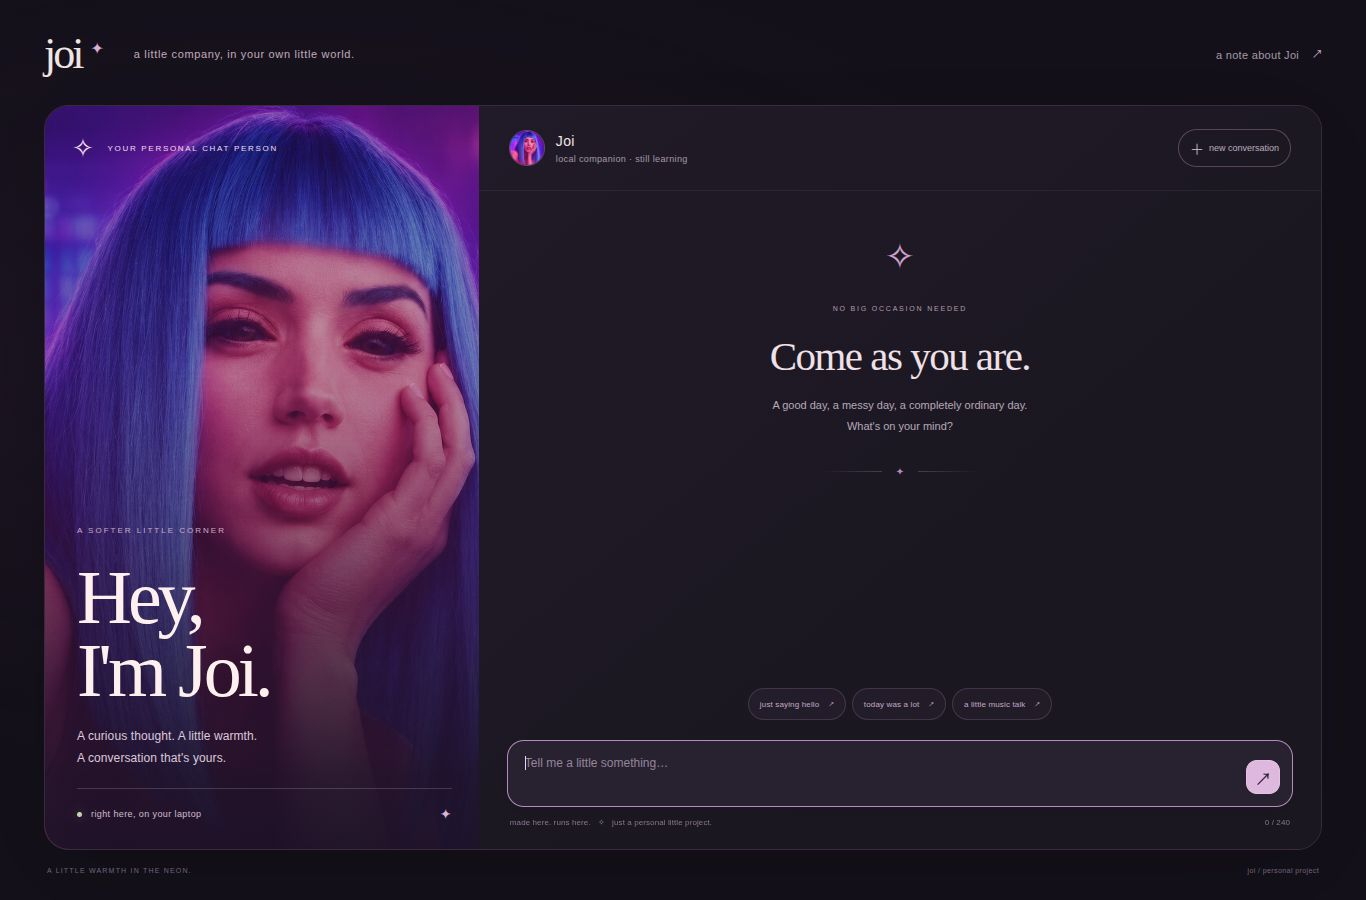
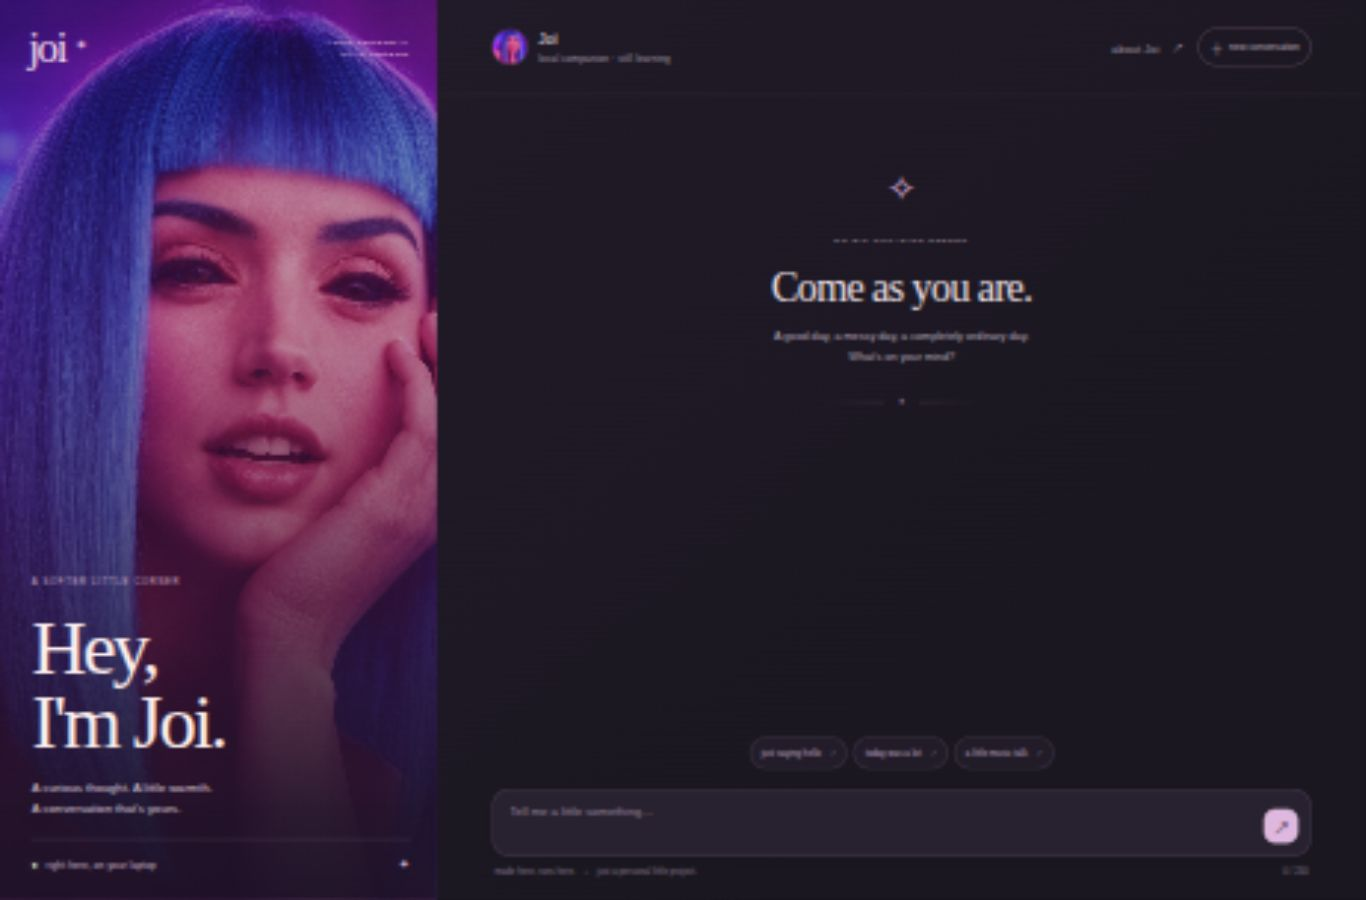
Make Joi chat fill the browser window

diff --git a/web/app.css b/web/app.css
@@ -1,8 +1,8 @@
 :root{color-scheme:dark;--bg:#131019;--panel:#1b1722;--muted:#a59aa9;--ink:#f0e5e5;--accent:#ddb6df;--line:#3b303f;--soft:#c4a5c5;font-family:Arial,Helvetica,sans-serif;font-synthesis:none}
-*{box-sizing:border-box}body{margin:0;background:radial-gradient(ellipse at 20% 40%,#39214344,transparent 55%),var(--bg);color:var(--ink);min-height:100svh}button,a,textarea{-webkit-tap-highlight-color:transparent}button{font:inherit;cursor:pointer}button:disabled{cursor:wait;opacity:.45}button:focus-visible,a:focus-visible{outline:2px solid var(--accent);outline-offset:5px}button{transition:background .2s,color .2s,transform .2s}button:hover:not(:disabled){filter:brightness(1.15)}a{color:inherit;text-decoration:none}.shell{max-width:1400px;margin:auto;padding:25px 44px 18px}.topbar{height:58px;display:flex;align-items:center;gap:30px;margin-bottom:22px}.wordmark{font-family:Georgia,serif;font-size:44px;letter-spacing:-3px;line-height:1}.wordmark span{display:inline-block;color:#dfaddd;font-family:Arial,sans-serif;font-size:16px;vertical-align:top;margin:9px 0 0 9px;letter-spacing:0}.top-caption{font-size:11px;letter-spacing:.65px;color:#c0acbf}.notes-button{margin-left:auto;border:0;background:none;color:var(--muted);font-size:11px;padding:12px 0;letter-spacing:.3px}.notes-button span{margin-left:10px;color:var(--soft);font-size:15px}.experience{display:grid;grid-template-columns:34% 66%;height:min(770px,calc(100svh - 155px));min-height:560px;border:1px solid #3a2a3d;border-radius:25px;overflow:hidden;box-shadow:0 18px 100px #0003}.portrait-panel{position:relative;overflow:hidden;background:#391d50}.portrait{position:absolute;width:100%;height:100%;object-fit:cover;object-position:50% 35%;filter:saturate(.87) brightness(.88)}.portrait-shade{position:absolute;inset:0;background:linear-gradient(180deg,#20112725 35%,#1d102450 55%,#1a1125e6 90%,#1a1125f5)}.portrait-top{position:absolute;top:29px;left:27px;right:27px;display:flex;gap:12px;align-items:center;color:#f4deeb;font-size:8px;letter-spacing:1.7px}.little-star{font-size:26px;line-height:1}.portrait-caption{position:absolute;left:32px;right:20px;bottom:80px}.eyebrow{font-size:8px;letter-spacing:2px;font-weight:500;color:#ccadc9}.portrait-caption h1{font-family:Georgia,'Times New Roman',serif;font-size:76px;font-weight:400;line-height:.96;letter-spacing:-4px;margin:24px 0 18px;color:#fff0f0}.portrait-caption p{font-size:12px;line-height:1.85;color:#dfcadb;margin:0;letter-spacing:.1px}.portrait-bottom{position:absolute;bottom:27px;left:32px;right:27px;border-top:1px solid #ffffff29;padding-top:17px;display:flex;align-items:center;gap:9px;font-size:9px;color:#d1bdd0;letter-spacing:.4px}.portrait-bottom>span:last-child{margin-left:auto;font-size:14px;color:#dab4d9}.status-dot{width:5px;height:5px;background:#c3d7b4;border-radius:50%;box-shadow:0 0 9px #c3d7b455}.chat-panel{min-width:0;display:flex;flex-direction:column;background:linear-gradient(140deg,#211a28,#1a1720 70%)}.chat-header{display:flex;align-items:center;justify-content:space-between;padding:23px 30px;border-bottom:1px solid #dfb7df12;flex-shrink:0}.chat-identity{display:flex;align-items:center;gap:11px}.chat-identity img{width:36px;height:36px;border-radius:50%;object-fit:cover;object-position:50% 38%;border:1px solid #ae7fb873}.chat-identity h2{font-size:14px;font-weight:500;letter-spacing:.3px;margin:0 0 5px}.chat-identity p{font-size:9px;letter-spacing:.35px;color:var(--muted);margin:0}.new-chat{background:none;border:1px solid #59465c;border-radius:30px;padding:8px 11px;display:flex;gap:5px;align-items:center;color:#bcacbf;font-size:9px}.new-chat>span:first-child{font-size:14px}.conversation{overflow:auto;flex:1;min-height:0;padding:0 31px 20px;scroll-behavior:smooth;scrollbar-width:thin;scrollbar-color:#59445d transparent}.welcome{padding:clamp(25px,5vh,65px) 0 15px;text-align:center}.welcome-star{display:block;font-size:36px;color:#d0a2cf;margin:0 0 19px;font-weight:200}.welcome .eyebrow{font-size:7px;letter-spacing:1.8px;color:#b49caf}.welcome h2{font:400 clamp(30px,3vw,44px)/1.2 Georgia,serif;letter-spacing:-1.5px;margin:17px 0 14px;color:#f0e0e8}.welcome p{font-size:11px;line-height:1.9;color:#b8a8ba;margin:0}.star-line{display:flex;align-items:center;justify-content:center;gap:14px;margin:29px auto 7px;max-width:190px;color:#b78bb9;font-size:10px}.star-line i{height:1px;background:linear-gradient(90deg,transparent,#b78bb94d);width:60px}.star-line i:last-child{transform:rotate(180deg)}.message{display:flex;gap:10px;margin:22px 0;align-items:flex-start;animation:arrive .25s ease-out}.message img{width:25px;height:25px;object-fit:cover;border-radius:50%;flex-shrink:0}.message-content{min-width:0;max-width:88%}.message .name{font-size:8px;letter-spacing:1.2px;color:#b698b9;display:block;margin:0 0 8px}.message p{font-size:13px;line-height:1.8;margin:0;white-space:pre-wrap;overflow-wrap:anywhere;color:#e4d7e4}.message.user{justify-content:flex-end}.message.user .message-content{background:#3e3049;border:1px solid #67506c4a;padding:12px 17px;border-radius:17px 17px 3px 17px}.message.user .name{color:#c6a9cd;font-size:7px;margin-bottom:4px}.message.user p{font-size:12px;color:#e6dbe9}.thinking{display:flex;align-items:center;gap:10px;margin:22px 0}.thinking[hidden]{display:none}.thinking img{width:25px;height:25px;border-radius:50%}.thinking>div{display:flex;gap:5px;padding:10px 0}.thinking>div>span{width:4px;height:4px;border-radius:50%;background:#bd9ac7;animation:pulse 1.4s infinite}.thinking>div>span:nth-child(2){animation-delay:.2s}.thinking>div>span:nth-child(3){animation-delay:.4s}.composer-area{padding:0 28px 22px;flex-shrink:0}.suggestions{display:flex;gap:6px;justify-content:center;margin:7px 0 20px;flex-wrap:wrap}.suggestions[hidden]{display:none}.suggestions button{font-size:8px;letter-spacing:.15px;color:#c2a9c6;background:#34273c55;border:1px solid #67526c73;padding:9px 11px;border-radius:20px}.suggestions button span{margin-left:7px;color:#cba1d5}.composer{display:flex;align-items:flex-end;background:#28212f;border:1px solid #65516e8c;border-radius:17px;padding:12px 12px 12px 17px;gap:10px;box-shadow:0 4px 25px #0001}.composer:focus-within{border-color:#b48cbf}.composer textarea{width:100%;background:none;border:0;resize:none;outline:none;min-height:38px;max-height:100px;color:#e6d9e9;font:12px/1.7 Arial,sans-serif;padding:0;scrollbar-width:thin}.composer textarea::placeholder{color:#95859d}.send{border:1px solid #e4c3e4;background:#dfb8df;color:#35243b;width:34px;height:34px;border-radius:11px;flex-shrink:0;font-size:23px;display:grid;place-items:center}.composer-footer{display:flex;justify-content:space-between;gap:12px;font-size:8px;color:#86768d;margin:11px 3px 0;letter-spacing:.1px}.composer-footer i{font-style:normal;color:#a984b3;margin:0 5px}#counter{white-space:nowrap}.error{font-size:11px;color:#f6bfd1;line-height:1.7;background:#4b253c55;border-radius:8px;padding:9px 12px}.page-footer{display:flex;justify-content:space-between;margin:17px 3px 0;color:#73637d;font-size:7px;letter-spacing:1.2px}.page-footer>span:last-child{letter-spacing:.4px}.sr-only{position:absolute;width:1px;height:1px;padding:0;margin:-1px;overflow:hidden;clip:rect(0,0,0,0);white-space:nowrap;border:0}dialog{width:min(450px,calc(100% - 40px));background:#241b2d;color:#e6d9e9;border:1px solid #6b4a74;border-radius:23px;padding:36px}dialog::backdrop{background:#09050edb;backdrop-filter:blur(6px)}dialog h2{font:400 36px/1.1 Georgia,serif;letter-spacing:-1px;margin:20px 0}dialog p{font-size:12px;line-height:1.85;color:#c7b7cb}.close-dialog{position:absolute;right:16px;top:12px;border:0;background:none;color:#bda4c6;font-size:25px}.model-note{border-top:1px solid #62436b;padding-top:14px;margin-top:20px;color:#ab8db8;font-size:10px;line-height:1.8}@keyframes pulse{0%,80%,100%{opacity:.3;transform:translateY(0)}40%{opacity:1;transform:translateY(-3px)}}@keyframes arrive{from{opacity:0;transform:translateY(4px)}to{opacity:1;transform:translateY(0)}}
-@media(min-width:1500px){.shell{padding-top:35px}.topbar{margin-bottom:30px}.experience{height:calc(100svh - 190px);max-height:900px}.welcome{padding-top:80px}.portrait-caption h1{font-size:90px}}
-@media(max-width:900px){.shell{padding:15px 20px}.topbar{gap:20px;margin-bottom:15px}.experience{grid-template-columns:32% 68%;border-radius:20px}.portrait-caption{left:23px}.portrait-caption h1{font-size:61px}.portrait-caption p{font-size:10px}.portrait-top{left:22px;font-size:6px;letter-spacing:1px}.portrait-bottom{left:23px;font-size:7px}.chat-header{padding:20px}.conversation{padding-left:22px;padding-right:22px}.composer-area{padding-left:19px;padding-right:19px}.top-caption{font-size:9px}.suggestions{gap:5px}.suggestions button{font-size:7px;padding:8px}.new-chat{font-size:8px}.portrait{object-position:50% 35%}}
-@media(max-width:620px){.shell{padding:0 12px 10px}.topbar{height:68px;margin:0 5px}.wordmark{font-size:37px}.top-caption{font-size:8px;max-width:150px;line-height:1.7;letter-spacing:.2px}.notes-button{font-size:0}.notes-button span{font-size:19px}.experience{display:block;height:calc(100svh - 102px);min-height:420px;border-radius:20px}.portrait-panel{display:none}.chat-panel{height:100%;background:radial-gradient(ellipse at 90% 0,#53305055,transparent 55%),#1b1722}.chat-header{padding:17px 18px}.chat-identity img{width:35px;height:35px}.chat-identity h2{font-size:14px}.chat-identity p{font-size:9px}.new-chat{padding:7px 10px;font-size:8px}.welcome{padding-top:7vh}.welcome h2{font-size:38px}.welcome p{font-size:11px}.conversation{padding-left:19px;padding-right:19px}.composer-area{padding:0 14px 16px}.composer textarea{font-size:16px;line-height:1.5}.composer-footer{font-size:7px}.composer-footer>span:first-child{max-width:250px}.page-footer{font-size:6px;margin:11px 4px 0;letter-spacing:.8px}.suggestions{margin-bottom:13px}.suggestions button{font-size:8px;padding:8px 9px}.welcome-star{font-size:32px;margin-bottom:20px}}
+*{box-sizing:border-box}body{margin:0;background:radial-gradient(ellipse at 20% 40%,#39214344,transparent 55%),var(--bg);color:var(--ink);height:100%;overflow:hidden}button,a,textarea{-webkit-tap-highlight-color:transparent}button{font:inherit;cursor:pointer}button:disabled{cursor:wait;opacity:.45}button:focus-visible,a:focus-visible{outline:2px solid var(--accent);outline-offset:5px}button{transition:background .2s,color .2s,transform .2s}button:hover:not(:disabled){filter:brightness(1.15)}a{color:inherit;text-decoration:none}.shell{width:100%;height:100vh;height:100dvh;margin:0;padding:0;overflow:hidden}.wordmark{font-family:Georgia,serif;font-size:44px;letter-spacing:-3px;line-height:1}.wordmark span{display:inline-block;color:#dfaddd;font-family:Arial,sans-serif;font-size:16px;vertical-align:top;margin:9px 0 0 9px;letter-spacing:0}.chat-actions{display:flex;align-items:center;gap:16px}.notes-button{border:0;background:none;color:var(--muted);font-size:11px;padding:12px 0;letter-spacing:.3px}.notes-button span{margin-left:10px;color:var(--soft);font-size:15px}.experience{display:grid;grid-template-columns:minmax(260px,32%) minmax(0,1fr);width:100%;height:100%;min-height:0;overflow:hidden}.portrait-panel{position:relative;overflow:hidden;background:#391d50}.portrait{position:absolute;width:100%;height:100%;object-fit:cover;object-position:50% 35%;filter:saturate(.87) brightness(.88)}.portrait-shade{position:absolute;inset:0;background:linear-gradient(180deg,#20112725 35%,#1d102450 55%,#1a1125e6 90%,#1a1125f5)}.portrait-top{position:absolute;top:27px;left:28px;right:28px;display:flex;justify-content:space-between;gap:12px;align-items:center;color:#f4deeb}.portrait-top-label{text-align:right;font-size:7px;line-height:1.8;letter-spacing:1.7px}.portrait-caption{position:absolute;left:32px;right:20px;bottom:80px}.eyebrow{font-size:8px;letter-spacing:2px;font-weight:500;color:#ccadc9}.portrait-caption h1{font-family:Georgia,'Times New Roman',serif;font-size:76px;font-weight:400;line-height:.96;letter-spacing:-4px;margin:24px 0 18px;color:#fff0f0}.portrait-caption p{font-size:12px;line-height:1.85;color:#dfcadb;margin:0;letter-spacing:.1px}.portrait-bottom{position:absolute;bottom:27px;left:32px;right:27px;border-top:1px solid #ffffff29;padding-top:17px;display:flex;align-items:center;gap:9px;font-size:9px;color:#d1bdd0;letter-spacing:.4px}.portrait-bottom>span:last-child{margin-left:auto;font-size:14px;color:#dab4d9}.status-dot{width:5px;height:5px;background:#c3d7b4;border-radius:50%;box-shadow:0 0 9px #c3d7b455}.chat-panel{min-width:0;min-height:0;display:flex;flex-direction:column;background:linear-gradient(140deg,#211a28,#1a1720 70%)}.chat-header{display:flex;align-items:center;justify-content:space-between;padding:24px clamp(24px,4vw,64px);border-bottom:1px solid #dfb7df12;flex-shrink:0}.chat-identity{display:flex;align-items:center;gap:11px}.chat-identity img{width:36px;height:36px;border-radius:50%;object-fit:cover;object-position:50% 38%;border:1px solid #ae7fb873}.chat-identity h2{font-size:14px;font-weight:500;letter-spacing:.3px;margin:0 0 5px}.chat-identity p{font-size:9px;letter-spacing:.35px;color:var(--muted);margin:0}.new-chat{background:none;border:1px solid #59465c;border-radius:30px;padding:8px 11px;display:flex;gap:5px;align-items:center;color:#bcacbf;font-size:9px}.new-chat>span:first-child{font-size:14px}.conversation{overflow:auto;flex:1;min-height:0;padding:0 clamp(24px,4vw,64px) 24px;scroll-behavior:smooth;scrollbar-width:thin;scrollbar-color:#59445d transparent}.welcome{padding:clamp(32px,8vh,96px) 0 15px;text-align:center}.welcome-star{display:block;font-size:36px;color:#d0a2cf;margin:0 0 19px;font-weight:200}.welcome .eyebrow{font-size:7px;letter-spacing:1.8px;color:#b49caf}.welcome h2{font:400 clamp(30px,3vw,44px)/1.2 Georgia,serif;letter-spacing:-1.5px;margin:17px 0 14px;color:#f0e0e8}.welcome p{font-size:11px;line-height:1.9;color:#b8a8ba;margin:0}.star-line{display:flex;align-items:center;justify-content:center;gap:14px;margin:29px auto 7px;max-width:190px;color:#b78bb9;font-size:10px}.star-line i{height:1px;background:linear-gradient(90deg,transparent,#b78bb94d);width:60px}.star-line i:last-child{transform:rotate(180deg)}.message{display:flex;gap:10px;margin:22px 0;align-items:flex-start;animation:arrive .25s ease-out}.message img{width:25px;height:25px;object-fit:cover;border-radius:50%;flex-shrink:0}.message-content{min-width:0;max-width:88%}.message .name{font-size:8px;letter-spacing:1.2px;color:#b698b9;display:block;margin:0 0 8px}.message p{font-size:13px;line-height:1.8;margin:0;white-space:pre-wrap;overflow-wrap:anywhere;color:#e4d7e4}.message.user{justify-content:flex-end}.message.user .message-content{background:#3e3049;border:1px solid #67506c4a;padding:12px 17px;border-radius:17px 17px 3px 17px}.message.user .name{color:#c6a9cd;font-size:7px;margin-bottom:4px}.message.user p{font-size:12px;color:#e6dbe9}.thinking{display:flex;align-items:center;gap:10px;margin:22px 0}.thinking[hidden]{display:none}.thinking img{width:25px;height:25px;border-radius:50%}.thinking>div{display:flex;gap:5px;padding:10px 0}.thinking>div>span{width:4px;height:4px;border-radius:50%;background:#bd9ac7;animation:pulse 1.4s infinite}.thinking>div>span:nth-child(2){animation-delay:.2s}.thinking>div>span:nth-child(3){animation-delay:.4s}.composer-area{padding:0 clamp(24px,4vw,64px) 24px;flex-shrink:0}.suggestions{display:flex;gap:6px;justify-content:center;margin:7px 0 20px;flex-wrap:wrap}.suggestions[hidden]{display:none}.suggestions button{font-size:8px;letter-spacing:.15px;color:#c2a9c6;background:#34273c55;border:1px solid #67526c73;padding:9px 11px;border-radius:20px}.suggestions button span{margin-left:7px;color:#cba1d5}.composer{display:flex;align-items:flex-end;background:#28212f;border:1px solid #65516e8c;border-radius:17px;padding:12px 12px 12px 17px;gap:10px;box-shadow:0 4px 25px #0001}.composer:focus-within{border-color:#b48cbf}.composer textarea{width:100%;background:none;border:0;resize:none;outline:none;min-height:38px;max-height:100px;color:#e6d9e9;font:12px/1.7 Arial,sans-serif;padding:0;scrollbar-width:thin}.composer textarea::placeholder{color:#95859d}.send{border:1px solid #e4c3e4;background:#dfb8df;color:#35243b;width:34px;height:34px;border-radius:11px;flex-shrink:0;font-size:23px;display:grid;place-items:center}.composer-footer{display:flex;justify-content:space-between;gap:12px;font-size:8px;color:#86768d;margin:11px 3px 0;letter-spacing:.1px}.composer-footer i{font-style:normal;color:#a984b3;margin:0 5px}#counter{white-space:nowrap}.error{font-size:11px;color:#f6bfd1;line-height:1.7;background:#4b253c55;border-radius:8px;padding:9px 12px}.sr-only{position:absolute;width:1px;height:1px;padding:0;margin:-1px;overflow:hidden;clip:rect(0,0,0,0);white-space:nowrap;border:0}dialog{width:min(450px,calc(100% - 40px));background:#241b2d;color:#e6d9e9;border:1px solid #6b4a74;border-radius:23px;padding:36px}dialog::backdrop{background:#09050edb;backdrop-filter:blur(6px)}dialog h2{font:400 36px/1.1 Georgia,serif;letter-spacing:-1px;margin:20px 0}dialog p{font-size:12px;line-height:1.85;color:#c7b7cb}.close-dialog{position:absolute;right:16px;top:12px;border:0;background:none;color:#bda4c6;font-size:25px}.model-note{border-top:1px solid #62436b;padding-top:14px;margin-top:20px;color:#ab8db8;font-size:10px;line-height:1.8}@keyframes pulse{0%,80%,100%{opacity:.3;transform:translateY(0)}40%{opacity:1;transform:translateY(-3px)}}@keyframes arrive{from{opacity:0;transform:translateY(4px)}to{opacity:1;transform:translateY(0)}}
+@media(min-width:1500px){.portrait-caption h1{font-size:90px}}
+@media(max-width:900px){.experience{grid-template-columns:minmax(210px,30%) minmax(0,1fr)}.portrait-caption{left:23px}.portrait-caption h1{font-size:61px}.portrait-caption p{font-size:10px}.portrait-top{left:22px;font-size:6px;letter-spacing:1px}.portrait-bottom{left:23px;font-size:7px}.chat-header{padding:20px}.conversation{padding-left:22px;padding-right:22px}.composer-area{padding-left:19px;padding-right:19px}.suggestions{gap:5px}.suggestions button{font-size:7px;padding:8px}.new-chat{font-size:8px}.portrait{object-position:50% 35%}}
+@media(max-width:620px){.chat-actions{gap:8px}.notes-button{font-size:0;min-width:32px;min-height:32px;padding:0}.notes-button span{font-size:19px;margin-left:0}.experience{display:block;height:100%;min-height:0}.portrait-panel{display:none}.chat-panel{height:100%;background:radial-gradient(ellipse at 90% 0,#53305055,transparent 55%),#1b1722}.chat-header{padding:17px 18px}.chat-identity img{width:35px;height:35px}.chat-identity h2{font-size:14px}.chat-identity p{font-size:9px}.new-chat{padding:7px 8px;font-size:8px;min-width:32px;min-height:32px;justify-content:center}.new-chat>span:last-child{display:none}.welcome{padding-top:7vh}.welcome h2{font-size:38px}.welcome p{font-size:11px}.conversation{padding-left:19px;padding-right:19px}.composer-area{padding:0 14px calc(16px + env(safe-area-inset-bottom))}.composer textarea{font-size:16px;line-height:1.5}.composer-footer{font-size:7px}.composer-footer>span:first-child{max-width:250px}.suggestions{margin-bottom:13px}.suggestions button{font-size:8px;padding:8px 9px}.welcome-star{font-size:32px;margin-bottom:20px}}
 @media(prefers-reduced-motion:reduce){*,*::before,*::after{scroll-behavior:auto!important;animation:none!important;transition:none!important}}
 
 .welcome-photo{display:none}@media(max-width:620px){.welcome-photo{display:block;width:80px;height:80px;margin:0 auto 24px;border-radius:50%;padding:3px;border:1px solid #a175b583;box-shadow:0 0 40px #a359b12b}.welcome-photo img{width:100%;height:100%;object-fit:cover;border-radius:50%}.welcome-star{display:none}.welcome{padding-top:5vh}}

diff --git a/web/index.html b/web/index.html
@@ -11,17 +11,11 @@
 </head>
 <body>
   <main class="shell">
-    <header class="topbar">
-      <a href="/" class="wordmark" aria-label="Joi home">joi<span>✦</span></a>
-      <span class="top-caption">a little company, in your own little world.</span>
-      <button class="notes-button" id="about-open">a note about Joi <span>↗</span></button>
-    </header>
-
     <section class="experience" aria-label="Chat with Joi">
       <aside class="portrait-panel">
         <img class="portrait" src="/assets/joi-portrait.png" alt="Joi with blue hair, lit by violet and magenta neon">
         <div class="portrait-shade"></div>
-        <div class="portrait-top"><span class="little-star">✧</span><span>YOUR PERSONAL CHAT PERSON</span></div>
+        <div class="portrait-top"><a href="/" class="wordmark" aria-label="Joi home">joi<span>✦</span></a><span class="portrait-top-label">YOUR PERSONAL<br>CHAT PERSON</span></div>
         <div class="portrait-caption"><span class="eyebrow">A SOFTER LITTLE CORNER</span><h1>Hey,<br>I'm Joi.</h1><p>A curious thought. A little warmth.<br>A conversation that's yours.</p></div>
         <div class="portrait-bottom"><span class="status-dot"></span><span>right here, on your laptop</span><span>✦</span></div>
       </aside>
@@ -29,7 +23,7 @@
       <section class="chat-panel">
         <header class="chat-header">
           <div class="chat-identity"><img src="/assets/joi-portrait.png" alt=""><div><h2>Joi</h2><p id="connection-status">finding my little corner…</p></div></div>
-          <button class="new-chat" id="new-chat" aria-label="Start a new conversation"><span>＋</span><span>new conversation</span></button>
+          <div class="chat-actions"><button class="notes-button" id="about-open" aria-label="About Joi">about Joi <span>↗</span></button><button class="new-chat" id="new-chat" aria-label="Start a new conversation"><span>＋</span><span>new conversation</span></button></div>
         </header>
 
         <div class="conversation" id="conversation" role="log" aria-label="Conversation" aria-live="polite">
@@ -46,7 +40,6 @@
         </div>
       </section>
     </section>
-    <footer class="page-footer"><span>A LITTLE WARMTH IN THE NEON.</span><span>joi / personal project</span></footer>
   </main>
 
   <dialog id="about"><button id="about-close" class="close-dialog" aria-label="Close note">×</button><span class="eyebrow">A NOTE FROM THIS LITTLE PROJECT</span><h2>Built here.<br>Learning still.</h2><p>Joi is a personal companion experiment, inspired by a little warmth in a neon world.</p><p>Her replies come from our own small neural models, trained locally from scratch. No outside chat service writes them. She's still learning dialogue, so her words can be a little wonky.</p><p>The last few turns are included when she replies. Reliable recall is still an experiment. This browser saves your conversation on this device; “new conversation” clears it.</p><div class="model-note" id="model-note">Loading local model details…</div></dialog>
